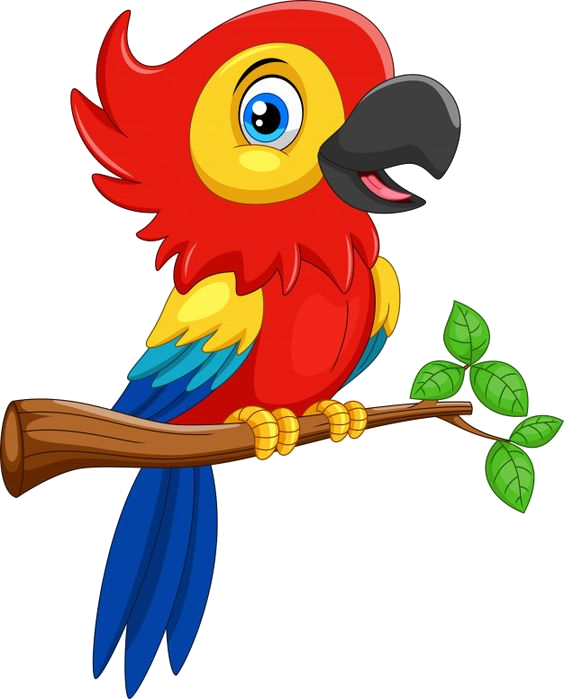
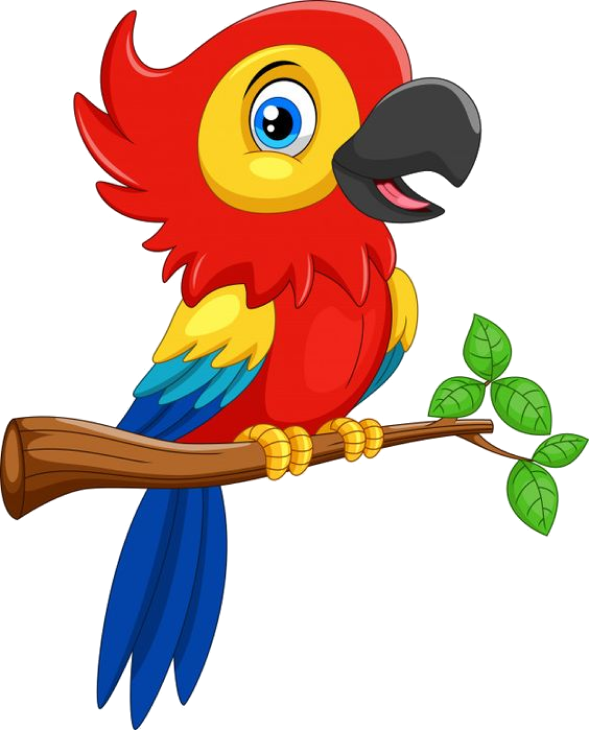
update animals

diff --git a/public/css/styles.css b/public/css/styles.css
@@ -546,8 +546,8 @@ main{
 }
 
 .figures-animals{
-    width: 25%;
-    height: 25%;
+    width: 30%;
+    height: 30%;
     display: flex;
     border-radius: 100px;
     background: #F6FED5;
